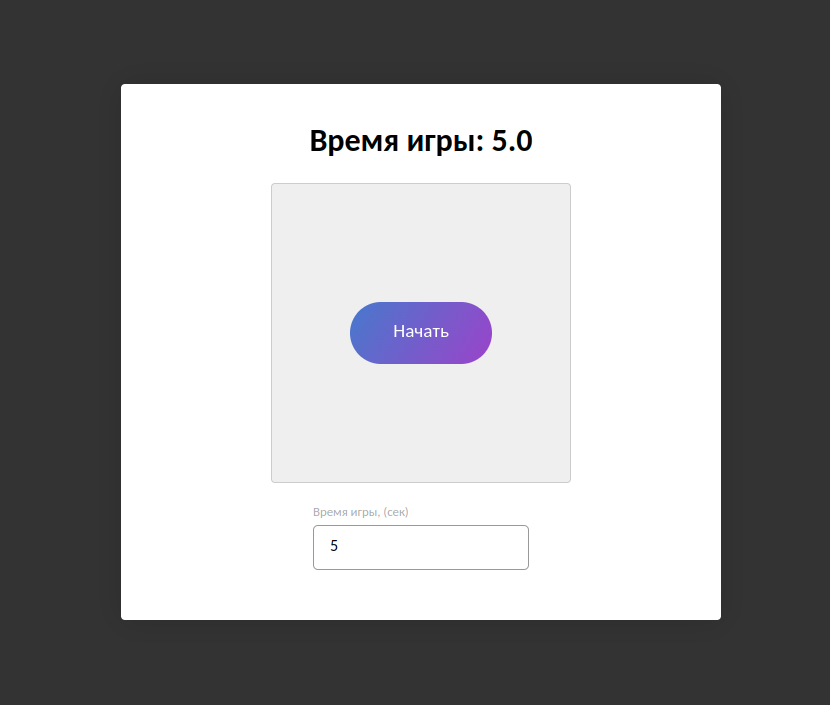
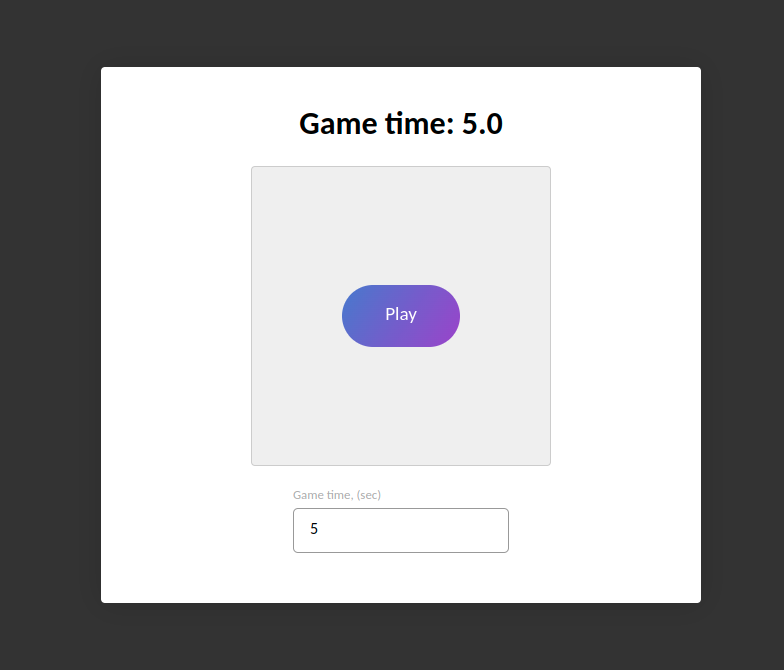
Change preview.png

diff --git a/start.html b/start.html
@@ -13,19 +13,19 @@
   <div class="app">
 
     <div class="app__header">
-      <h1 id="time-header">Время игры: <span id="time">5.0</span></h1>
-      <h1 id="result-header" class="hide">Ваш результат: <span id="result"></span></h1>
+      <h1 id="time-header">Game time: <span id="time">5.0</span></h1>
+      <h1 id="result-header" class="hide">Your result: <span id="result"></span></h1>
     </div>
 
     <div class="app__content">
-      <button class="btn" id="start">Начать</button>
+      <button class="btn" id="start">Play</button>
       <div class="game" id="game"></div>
     </div>
 
     <div class="app__footer">
 
       <div class="input">
-        <label for="game-time">Время игры, (сек)</label>
+        <label for="game-time">Game time, (sec)</label>
         <input type="number" id="game-time" min="5" step="1" value="5">
       </div>
       
